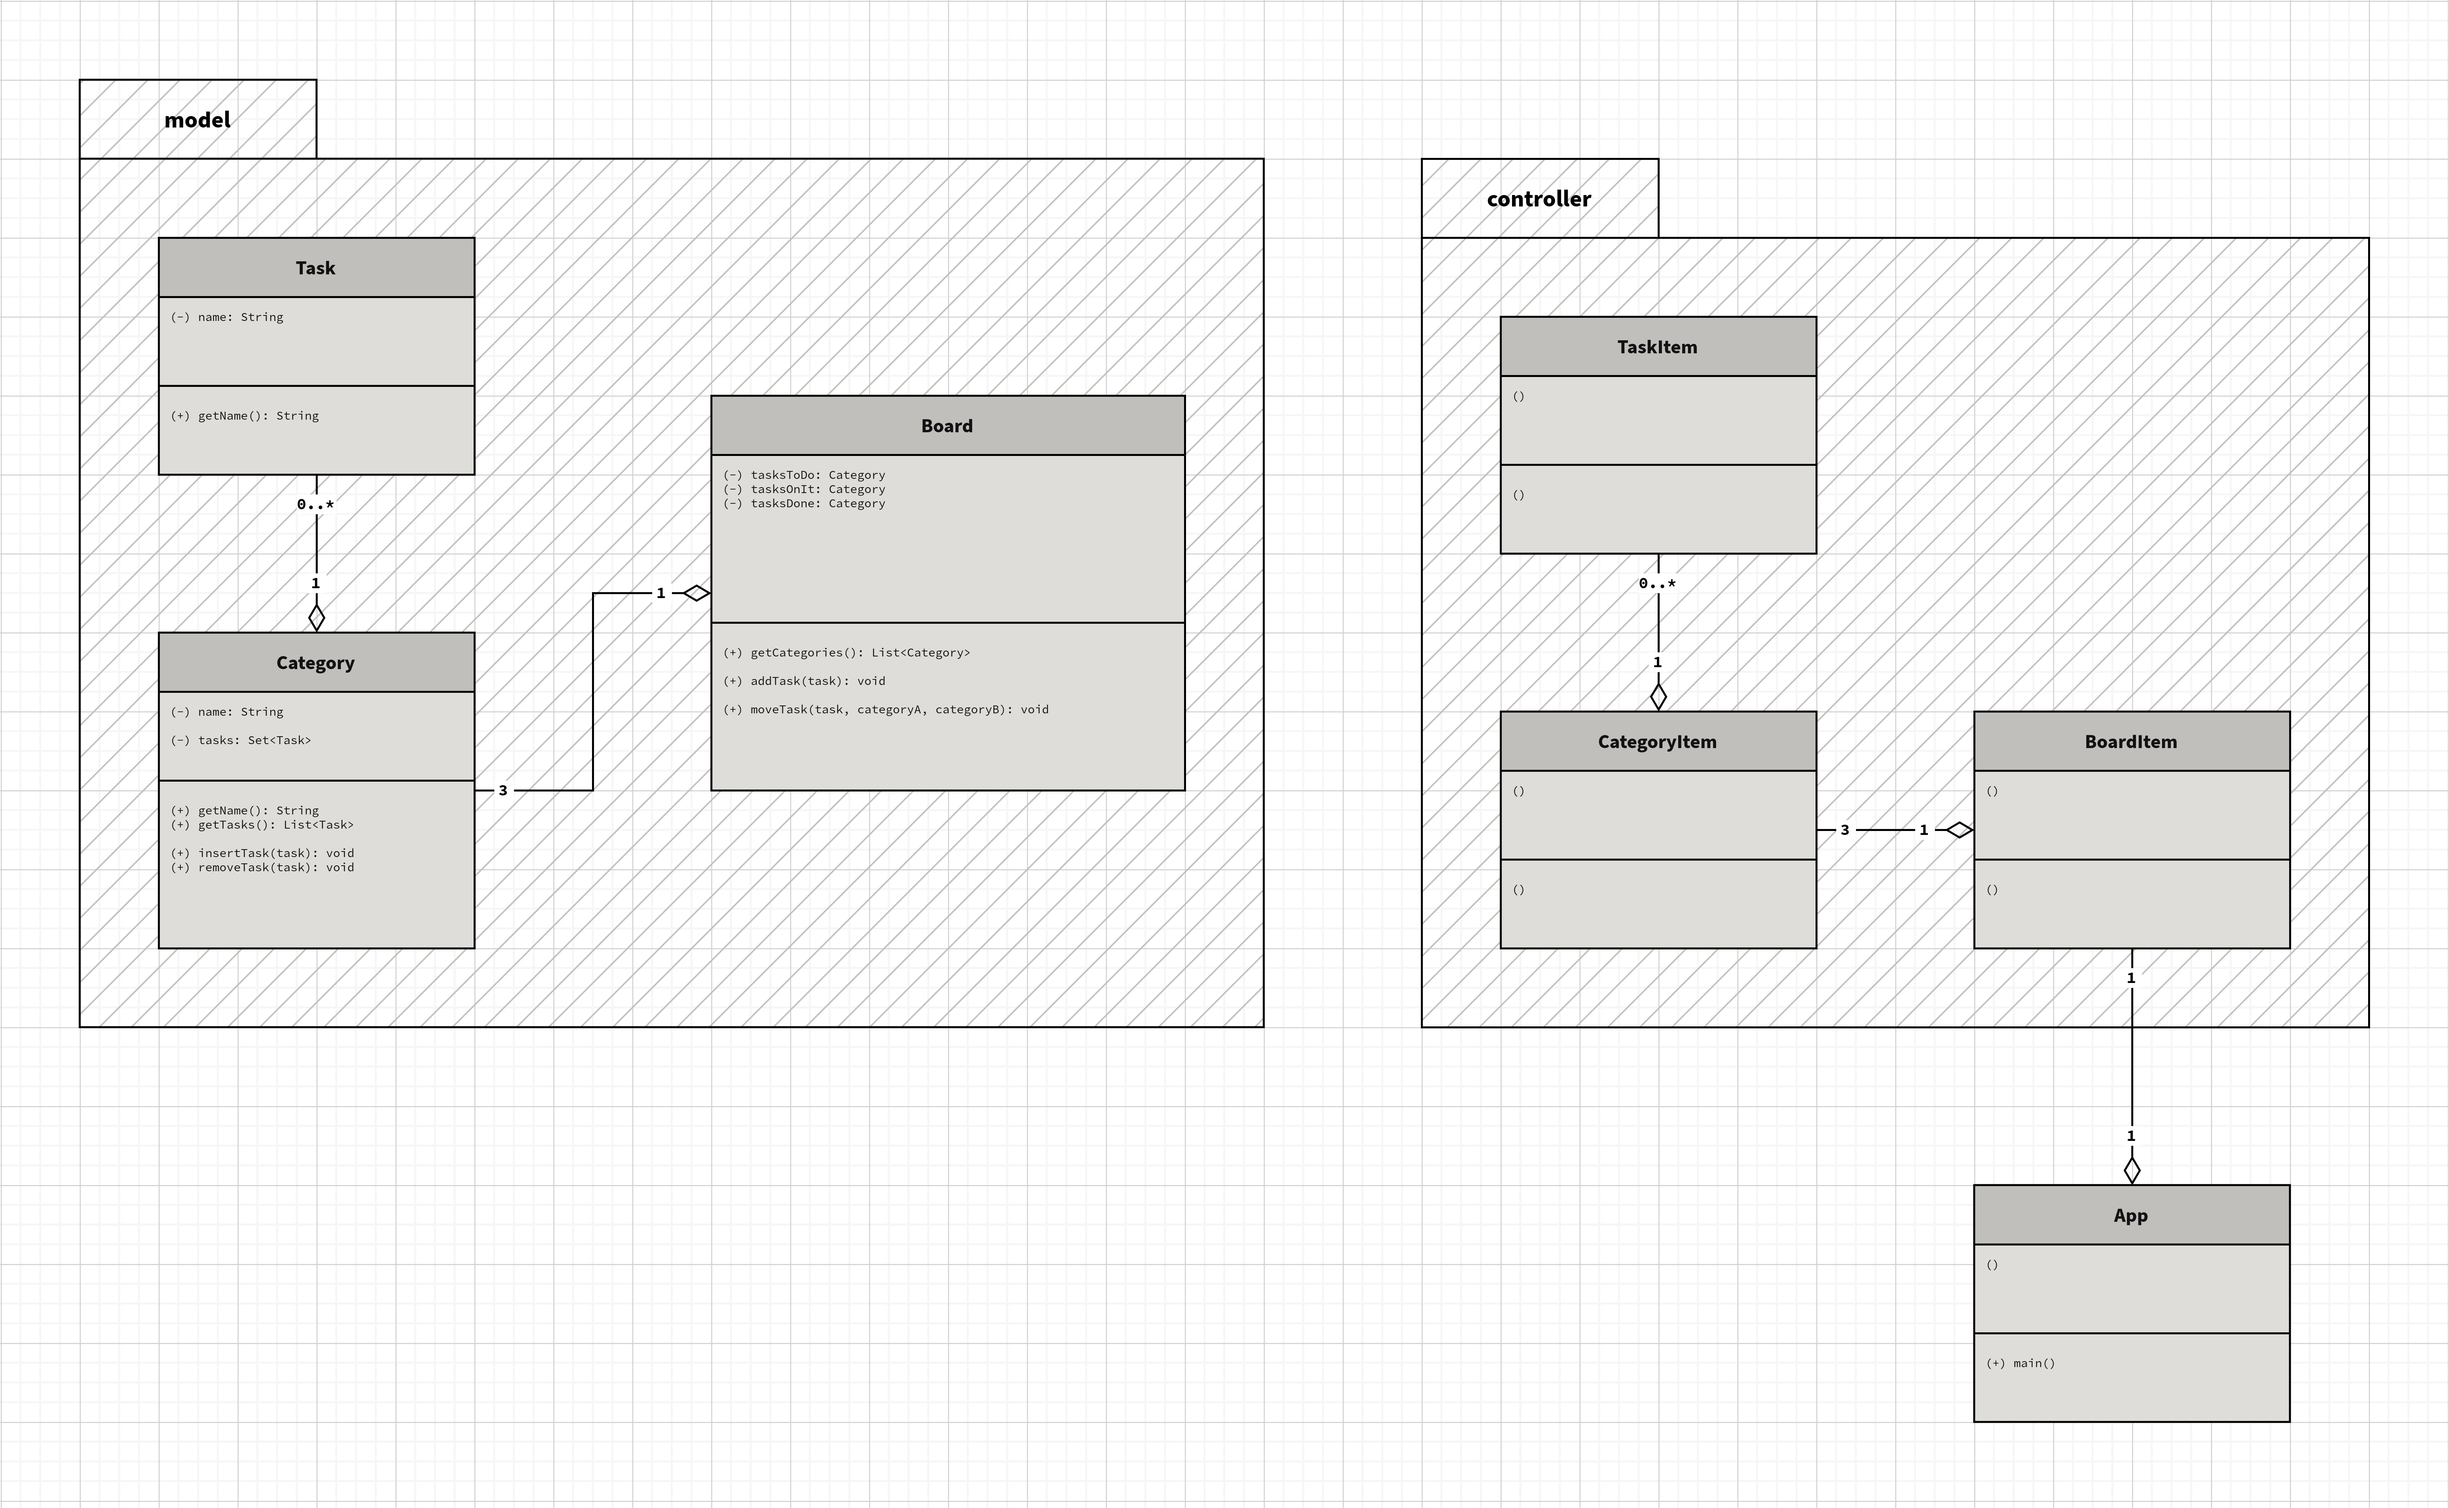
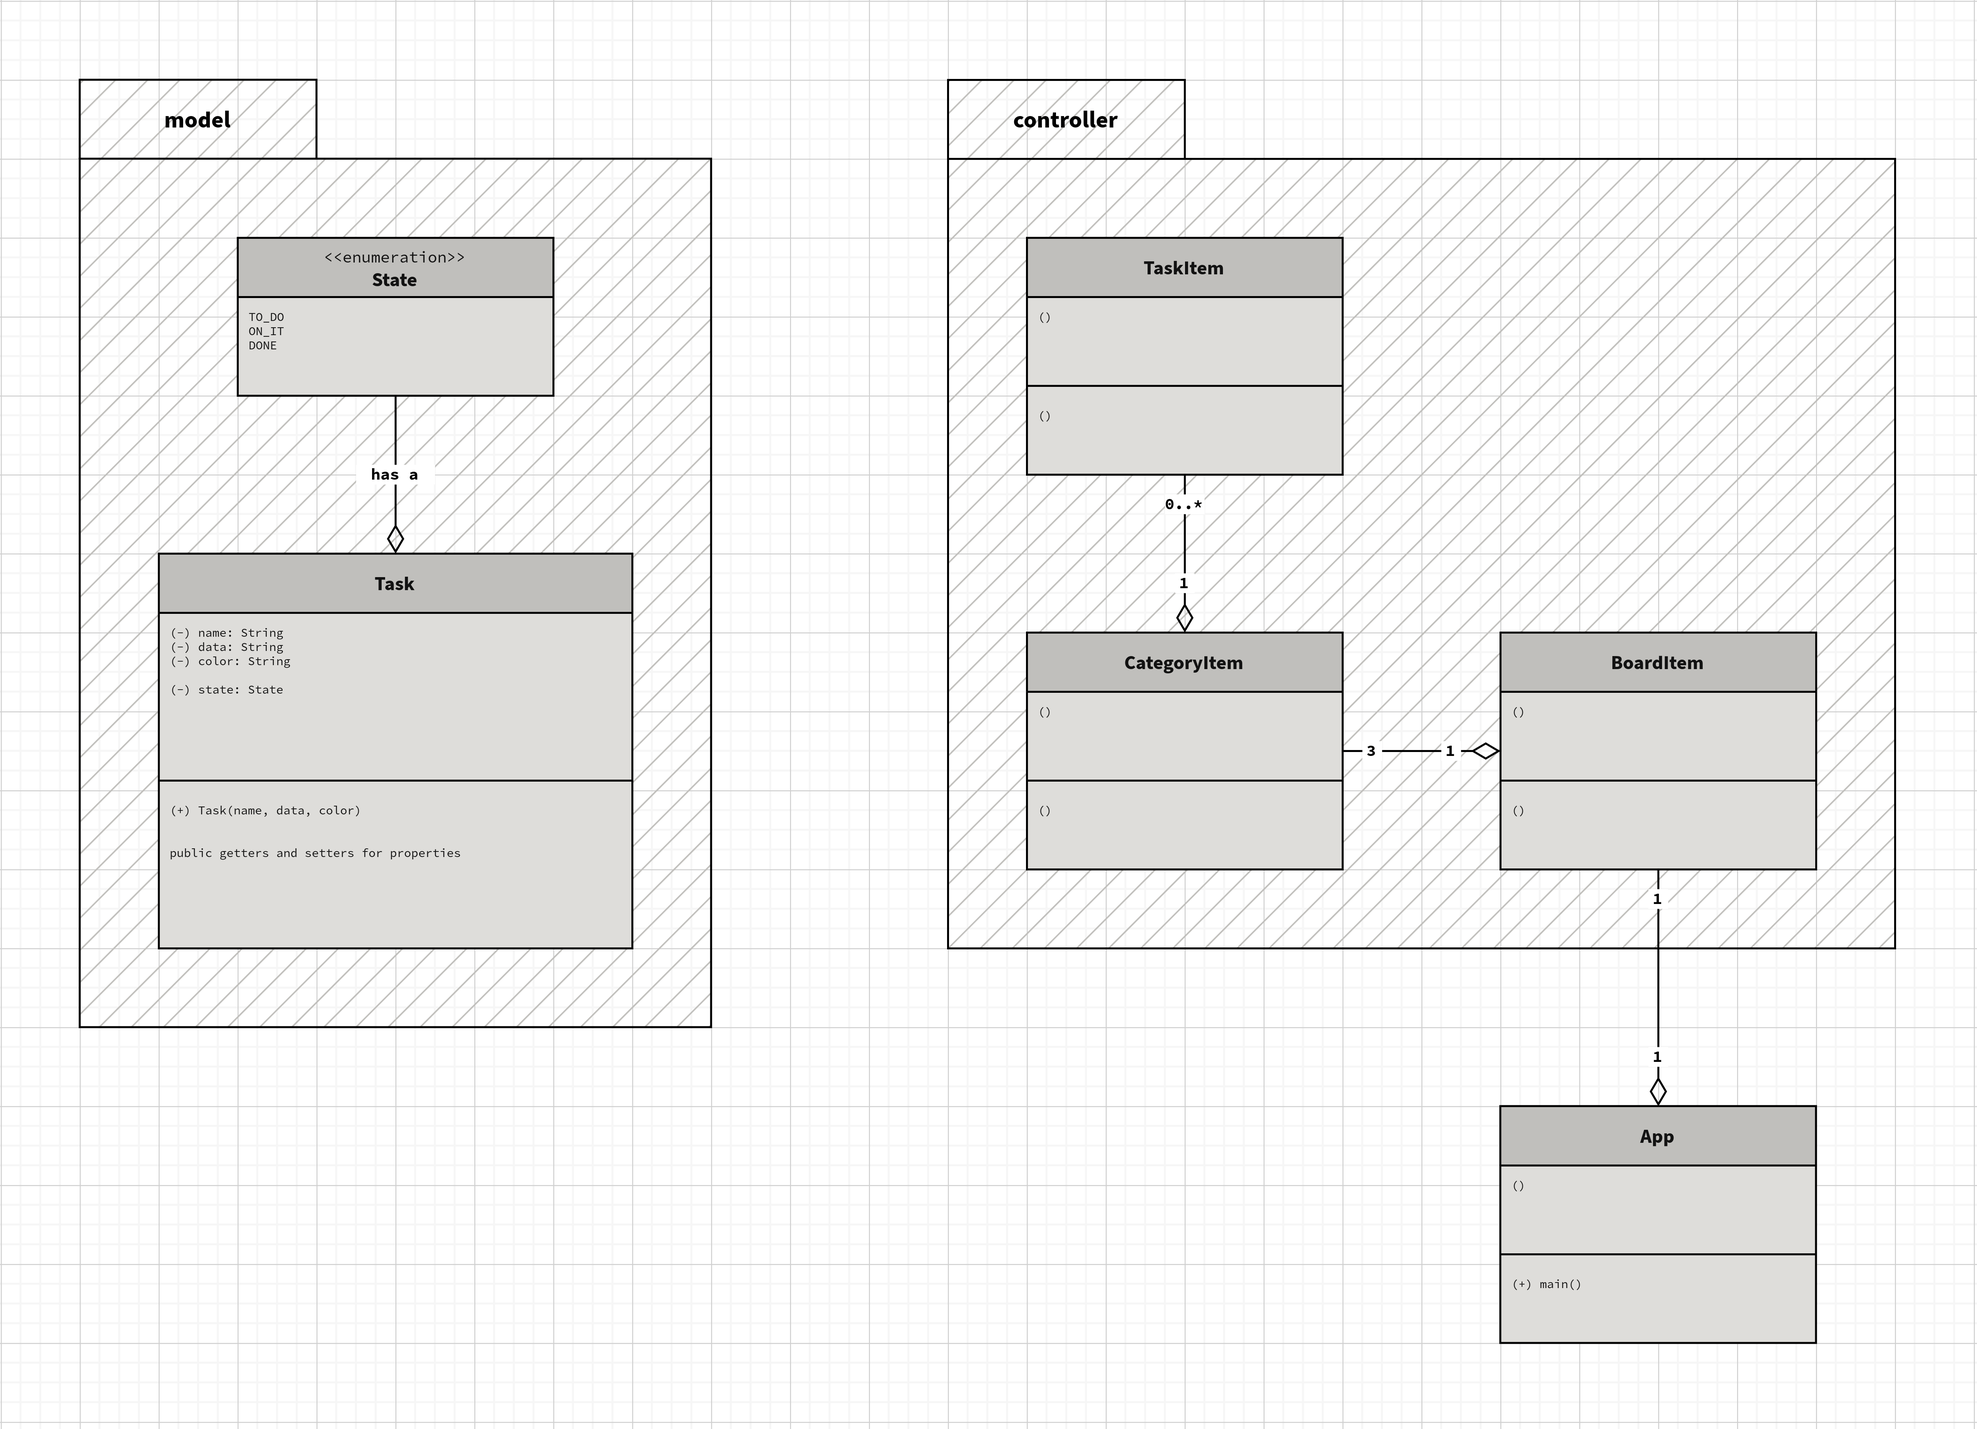
[FEATURE](/code/kanban/model): Change the model API
[FEATURE](/docs): Modify UML diagrams to reflect the model API changes

diff --git a/code/kanban/model/Task.java b/code/kanban/model/Task.java
@@ -1,16 +1,34 @@
 package kanban.model;
 
+import kanban.model.State;
+
 public class Task
 {
 	private String name;
+	private String data;
 	
-	public Task(String name)
+	private String color;
+	
+	private State state;
+	
+	public Task(String name, String data, String color)
 	{
 		this.name = name;
+		this.data = data;
+		this.color = color;
+		
+		this.state = State.TO_DO;
 	}
 	
-	public String getName()
-	{
-		return this.name;
-	}
+	public String getName() { return this.name; }
+	public String getData() { return this.name; }
+	public String getColor() { return this.name; }
+	
+	public State getState() { return this.state; }
+	
+	public void setName(String name) { this.name = name; }
+	public void setData(String data) { this.data = data; }
+	public void setColor(String color) { this.color = color; }
+	
+	public void setState(State state) { this.state = state; }
 }

diff --git a/code/kanban/model/State.java b/code/kanban/model/State.java
@@ -1,0 +1,8 @@
+package kanban.model;
+
+public enum State
+{
+	TO_DO,
+	ON_IT,
+	DONE,
+}
